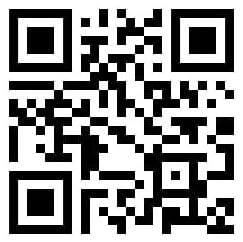
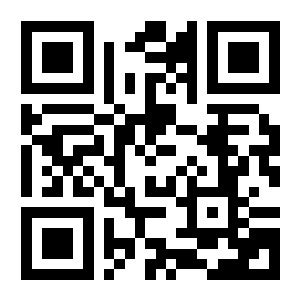
Ajustes de novios: QR físico a WhatsApp, Acompañante en form, fecha límite 8-nov, QR nuevo

diff --git a/src/components/scenarios/shared/GiftsSection.tsx b/src/components/scenarios/shared/GiftsSection.tsx
@@ -33,7 +33,7 @@ export function GiftsSection() {
                 Lista de regalos físicos
               </h3>
               <p className="mt-3 font-body text-sm leading-relaxed text-ink-light">
-                Escanea este QR para ver la lista de regalos que hemos seleccionado. 
+                Escanea este QR para solicitar la lista de regalos que hemos seleccionado. 
                 Podrás elegir el que prefieras desde ahí.
               </p>
               <div className="mt-6 rounded-2xl overflow-hidden shadow-soft border border-pistachio-200/50 bg-white">
@@ -47,11 +47,12 @@ export function GiftsSection() {
                 />
               </div>
               <a
-                href="/images/regalos/QR-regalos-fisico.jpeg"
-                download="QR-regalos-fisicos.jpg"
+                href="https://wa.link/ukrzab"
+                target="_blank"
+                rel="noopener noreferrer"
                 className="btn-ghost mt-4 inline-flex"
               >
-                Descargar QR
+                Solicitar lista
               </a>
             </div>
           </Reveal>

diff --git a/src/components/scenarios/pending/CodeOfConduct.tsx b/src/components/scenarios/pending/CodeOfConduct.tsx
@@ -4,7 +4,7 @@ import { OliveDivider } from "@/components/shared/OliveDivider";
 
 const REGLAS = [
   "Es una celebración solo para adultos; agradecemos dejar a los peques en casa, salvo indicación contraria en tu invitación.",
-  "Por favor confirma tu asistencia antes del 1 de octubre para poder organizar mesas y menú.",
+  "Por favor confirma tu asistencia antes del 8 de noviembre para poder organizar mesas y menú.",
 ];
 
 export function CodeOfConduct() {

diff --git a/src/components/scenarios/pending/RsvpForm.tsx b/src/components/scenarios/pending/RsvpForm.tsx
@@ -176,7 +176,7 @@ export function RsvpForm({ grupo, onSuccess }: RsvpFormProps) {
                   transition={{ delay: i * 0.1 }}
                 >
                   <label className="mb-2 block font-body text-xs uppercase tracking-widest2 text-ink-muted">
-                    Invitado {i + 1}
+                    Acompañante {i + 1}
                   </label>
                   <input
                     type="text"

diff --git a/src/components/scenarios/confirmed/Recommendations.tsx b/src/components/scenarios/confirmed/Recommendations.tsx
@@ -56,7 +56,7 @@ const GRUPOS = [
   {
     titulo: "Restricciones",
     Icon: WarningIcon,
-    items: ["Evento solo para adultos, salvo indicación", "No se permite ingresar con mascotas", "Estacionamiento disponible con valet parking"],
+    items: ["Evento solo para adultos, salvo indicación", "No se permite ingresar con mascotas", "Estacionamiento disponible"],
   },
 ];
 
